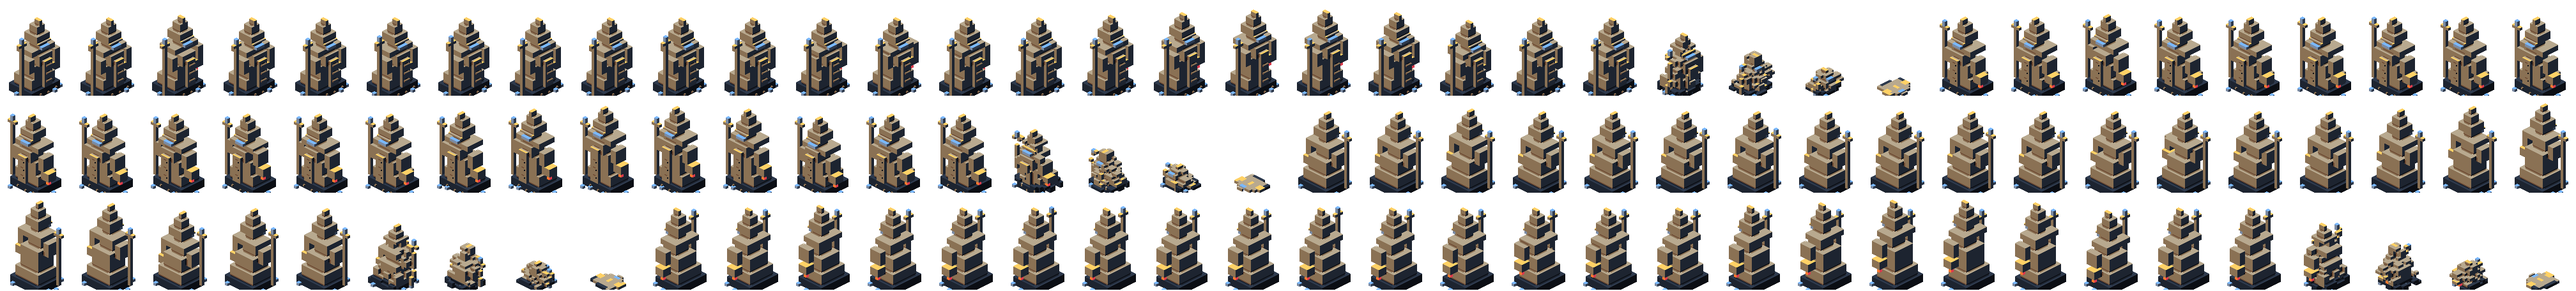
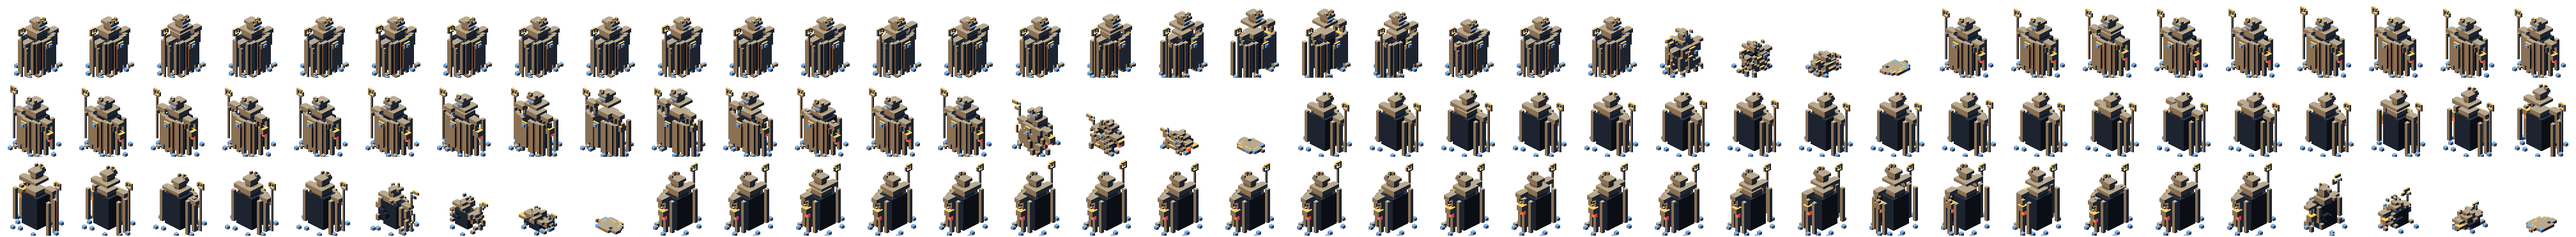
Bispo reesculpido pela ficha: cortina de raizes, bencao aberta e a hierarquia devolvida
O concept EQ-09 nao mostra uma torre de degraus — mostra um manto que
VIRA cortina: fiapos verticais de tecido em decomposicao e micelio
caindo dos ombros ate o chao, com a bainha esfiapada em alturas
variadas. O modelo novo constroi exatamente isso: treze fios de tecido
(ferrugem) e micelio (osso) pendurados sobre um nucleo escuro — os vaos
entre fios mostram sombra sob o manto, nunca o fundo — com cogumelos
brotando na bainha, estola dourada com medalhao eletrico, bracos
ABERTOS em bencao com mangas esfiapadas, turibulo com corrente, baculo
de DISCO-AUREOLA (aro dourado vazado com olho eletrico) e coroa
quitinosa de tres pontas com remate de ouro. Na Supernova a cortina
abre fio a fio enquanto o corpo se ergue — o telegrafo e o proprio
manto.

E conserta uma quebra de hierarquia que a reescultura do Guardiao
expos: o Bispo (28 unidades) era mais ALTO que o chefe final (22). A
coroa agora fecha em 20,5 — chefe de setor 2 abaixo do pinaculo do
chefe terminal, com o contraste mantido por forma: cortina fina contra
montanha coroada. Canvas 112x124 (era 112x152), Art Bible atualizada.

Hitbox, footprint e frames intactos; manifest v6; validador e suites
verdes (131 conteudo, 480 cliente).

Claude-Session: https://claude.ai/code/session_01QTbmC7gQdaxJG7QGULyaEf

diff --git a/docs/art/voxelyn-survival-art-bible.md b/docs/art/voxelyn-survival-art-bible.md
@@ -44,7 +44,7 @@ imagens borradas/semi-realistas, personagens com perspectivas diferentes entre s
 | Criatura pequena (stalker/spitter/bomber) | 64×64 px de atlas |
 | Criatura grande (bruiser) | 96×136 px de atlas |
 | Chefe final (guardian) | 112×128 px de atlas — o único canvas desta classe; a hierarquia de tamanho sobre o bruiser é contrato |
-| Elites e chefes (miner/corcel/bispo) | 96×120 / 160×168 / 112×152 px de atlas |
+| Elites e chefes (miner/corcel/bispo) | 96×120 / 160×168 / 112×124 px de atlas |
 | Projéteis/impactos | 32×32 px de atlas |
 | Profundidade de cor | Paleta indexada; máx. 20 cores por atlas incluindo outline (`tools/validate.mjs`) |
 | Transparência | Alpha binário: 0 ou 255 em TODO atlas; efeitos translúcidos vivem em sistemas de FX de runtime, nunca no atlas |
